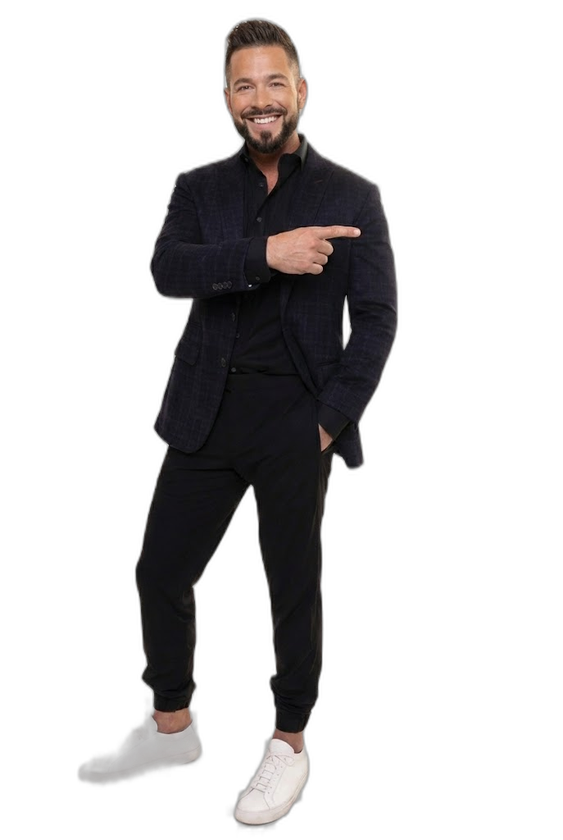
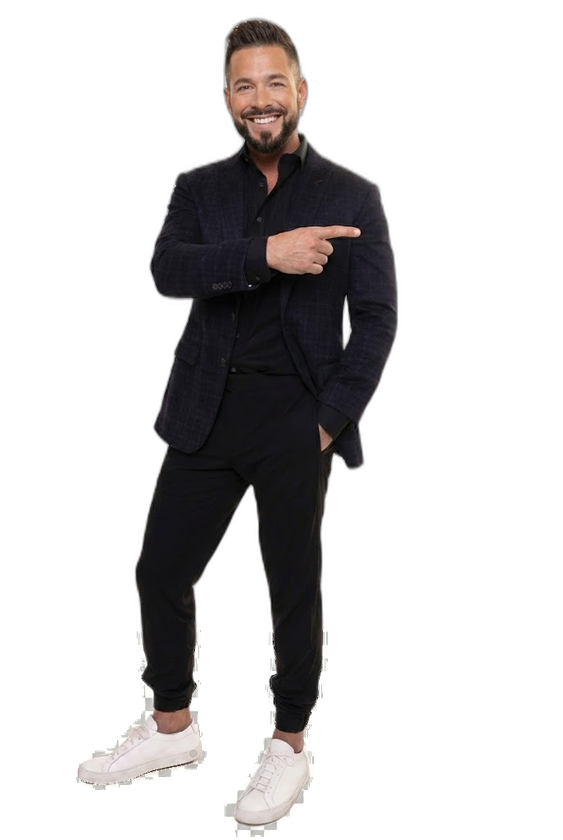
fix both shoes white, winner popup in front of Buck

diff --git a/index.html b/index.html
@@ -411,13 +411,13 @@
     box-shadow: 0 2px 12px rgba(0,0,0,0.4), 0 0 10px rgba(57,255,20,0.05);
   }
 
-  /* Winner popup - floats over the wheel */
+  /* Winner popup - floats over the wheel AND Buck */
   .winner-popup {
     position: absolute;
     top: 50%;
     left: 50%;
     transform: translate(-50%, -50%) scale(0);
-    z-index: 20;
+    z-index: 50;
     text-align: center;
     pointer-events: none;
     opacity: 0;
